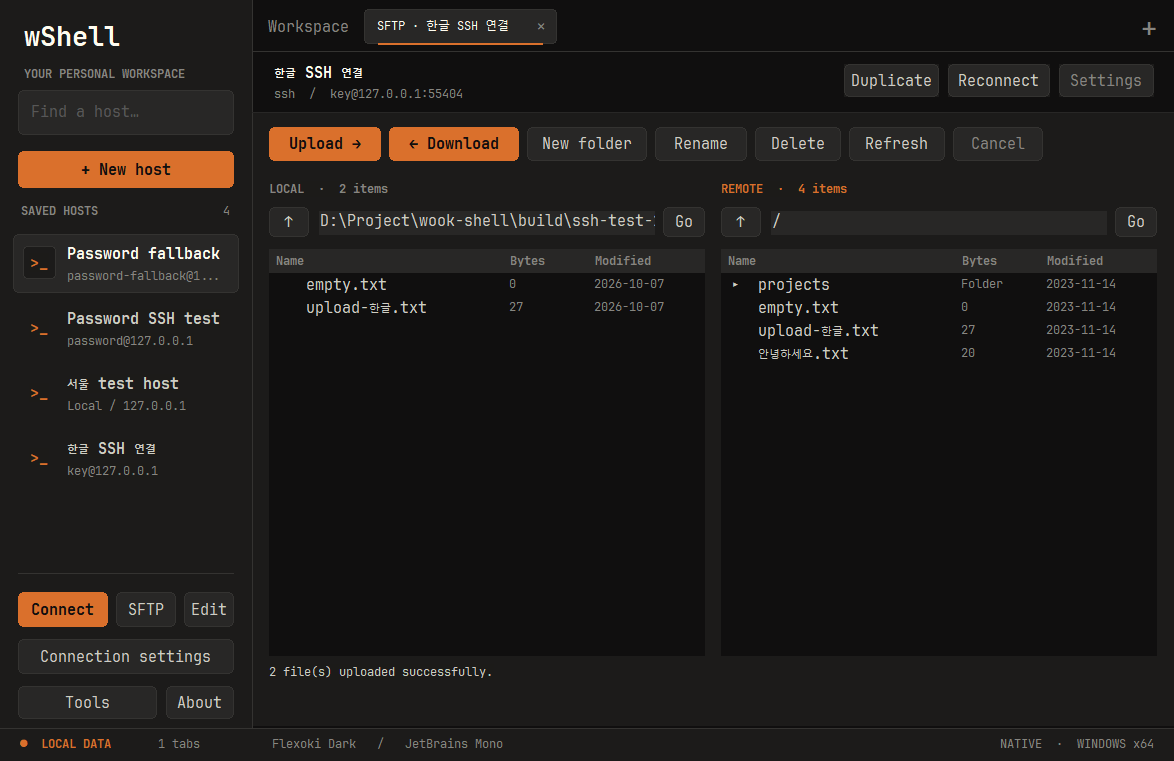
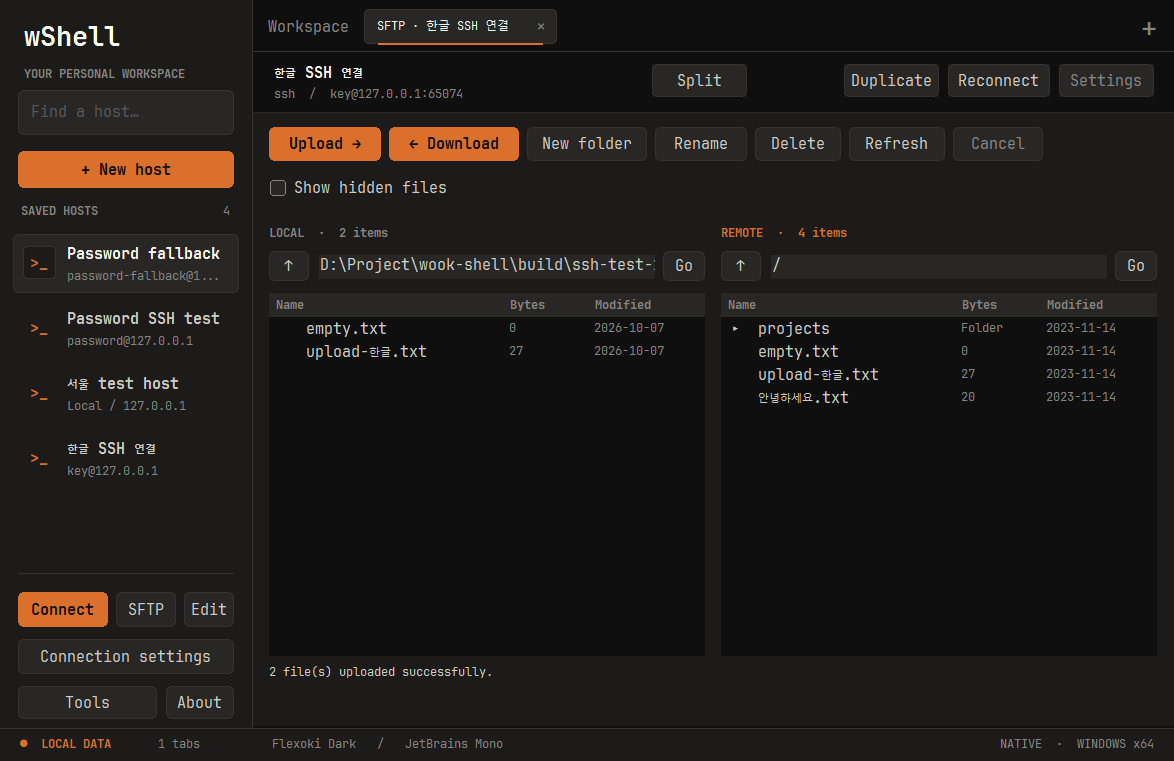
Fix Mac split focus capture and update SFTP screenshot

diff --git a/mac/Sources/WShell/Workspace.swift b/mac/Sources/WShell/Workspace.swift
@@ -34,7 +34,7 @@ final class Workspace: NSObject, NSApplicationDelegate, NSWindowDelegate, NSTabl
         focusMonitor = NSEvent.addLocalMonitorForEvents(matching: [.leftMouseDown, .rightMouseDown]) { [weak self] event in
             guard let self, event.window === window, selected != nil else { return event }
             let point = content.convert(event.locationInWindow, from: nil)
-            if let session = sessions.first(where: { panes.contains($0.id) && $0.id != selected && $0.view.frame.contains(point) }) {
+            if let session = sessions.first(where: { self.panes.contains($0.id) && $0.id != self.selected && $0.view.frame.contains(point) }) {
                 selected = session.id; rebuildTabs()
             }
             return event
